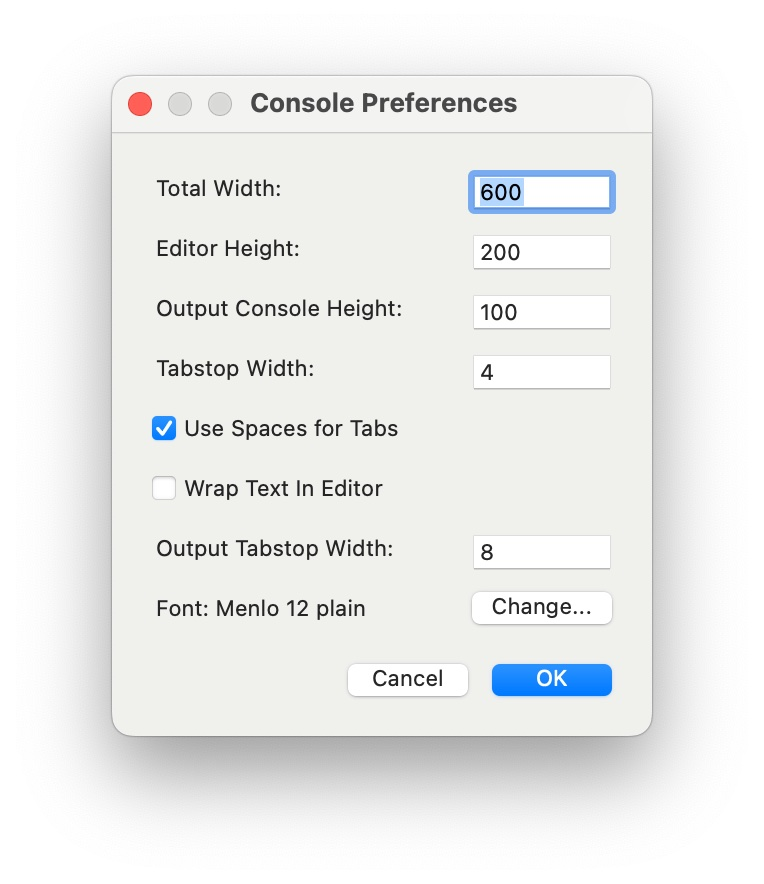
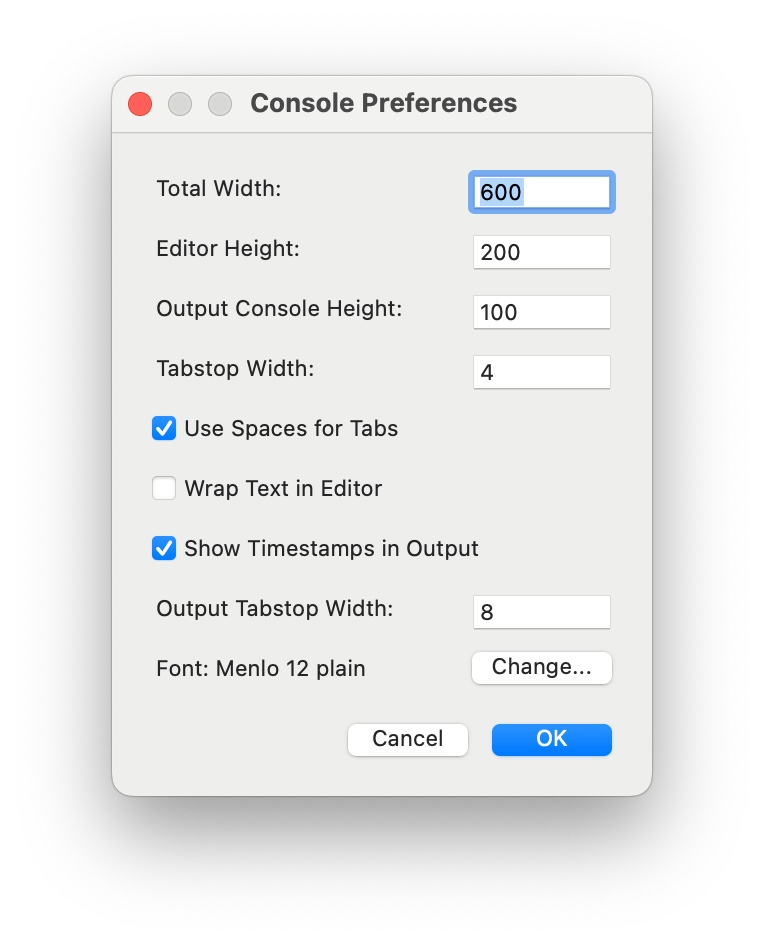
docs update

diff --git a/docs/rgp-lua/rgp-lua-console.md b/docs/rgp-lua/rgp-lua-console.md
@@ -65,7 +65,9 @@ A particularly effective approach is to edit scripts with your IDE editor and us
 
 **Use Spaces for Tabs** Selecting this option causes the editor to substitute spaces for tabs.
 
-**Wrap Text In Editor** If checked, longer lines of text are wrapped to the visible area of the editor. If unchecked, a horizontal scrollbar allows one line on the screen per line of code.
+**Wrap Text in Editor** If checked, longer lines of text are wrapped to the visible area of the editor. If unchecked, a horizontal scrollbar allows one line on the screen per line of code.
+
+**Show Timestamps in Output** If checked, each line of output begins with a timestamp that measures 1000ths of a second from the start of the script run.
 
 **Output Tabstop Width** The width of tabs in the output console, in spaces.
 
